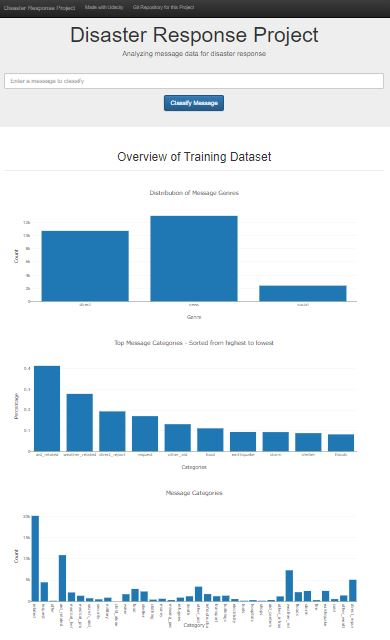
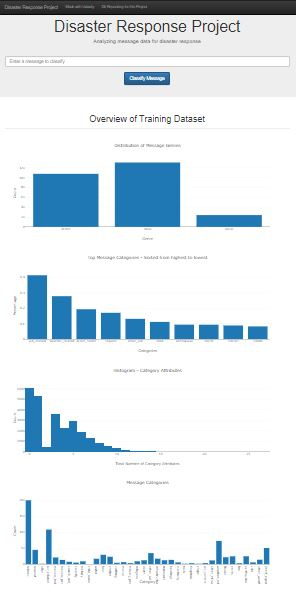
Last updating files from Disaster Response Project

diff --git a/app/run.py b/app/run.py
@@ -55,6 +55,7 @@ def index():
     # Getting exclude data correlated
     categories = df.iloc[:,4:]
     categories_mean = categories.mean().sort_values(ascending=False)[1:11]
+    category_hists = list(df.iloc[:, 4:].sum(axis=1))
     categories_names = list(categories_mean.index)   
 
     # Creating my own visuals
@@ -92,6 +93,24 @@ def index():
                 },
                 'xaxis': {
                     'title': "Categories"
+                }
+            }
+        },
+        {
+            'data': [
+                dict(
+                    x=category_hists,
+                    type='histogram'
+                ),
+            ],
+
+            'layout': {
+                'title': 'Histogram - Category Attributes ',
+                'yaxis': {
+                    'title': "Count"
+                },
+                'xaxis': {
+                    'title': "Total Number of Category Attributes"
                 }
             }
         },
